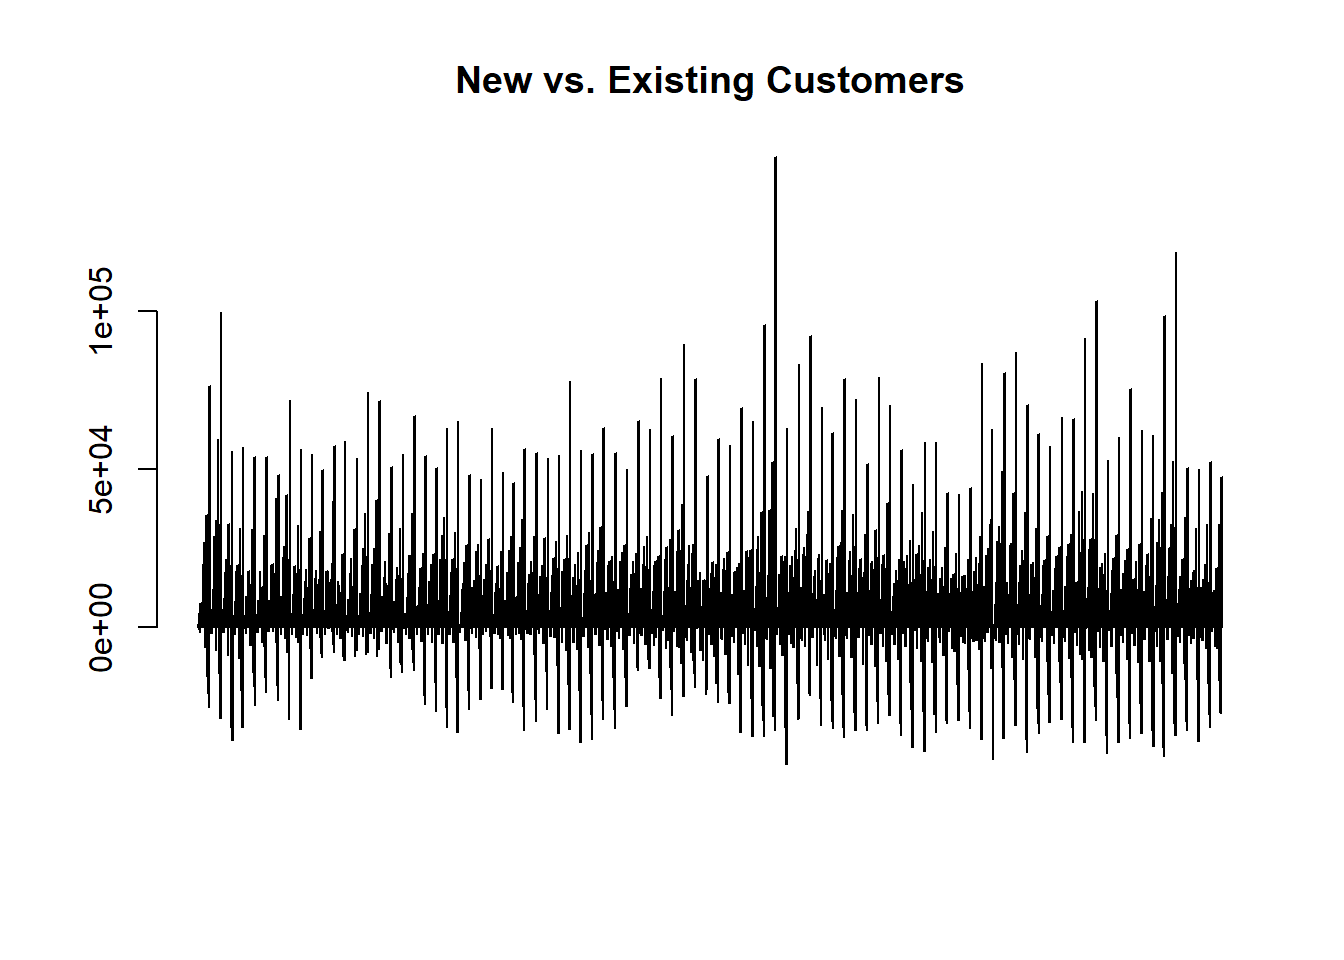
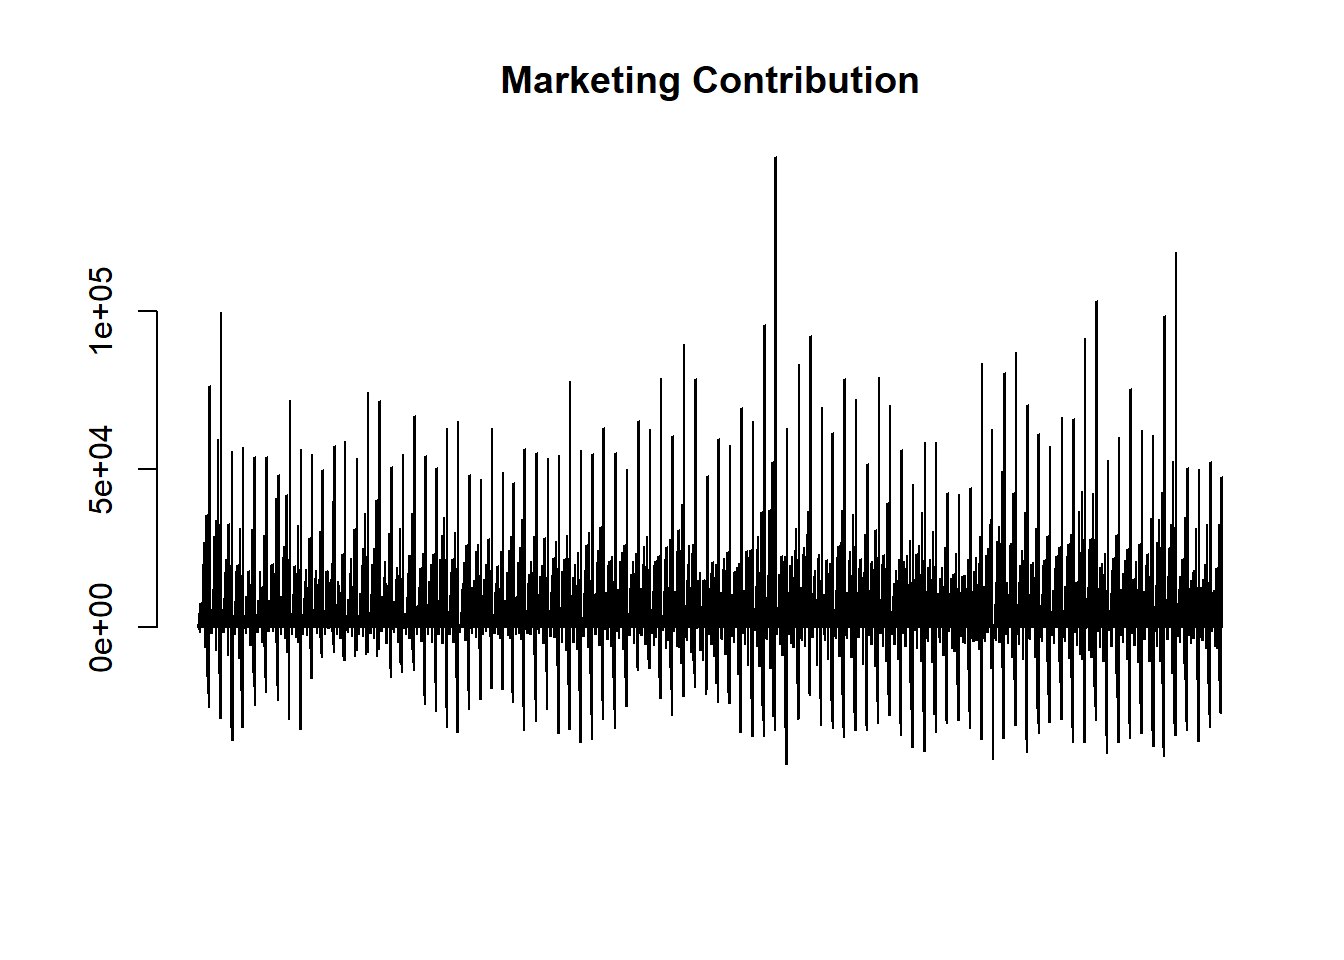
scripting test

Changed region(s): [[0.3438, 0.0625, 0.7188, 0.125]]

diff --git a/docs/scripting.html b/docs/scripting.html
@@ -748,7 +748,7 @@ code span.wa { color: #60a0b0; font-weight: bold; font-style: italic; } /* Warni
 </div>
 </div>
 <div class="cell">
-<div class="sourceCode cell-code" id="cb11"><pre class="sourceCode r code-with-copy"><code class="sourceCode r"><span id="cb11-1"><a href="#cb11-1" aria-hidden="true" tabindex="-1"></a><span class="fu">barplot</span>(mc<span class="sc">$</span>Marketing_Contribution, <span class="at">main=</span><span class="st">"New vs. Existing Customers"</span>)</span></code><button title="Copy to Clipboard" class="code-copy-button"><i class="bi"></i></button></pre></div>
+<div class="sourceCode cell-code" id="cb11"><pre class="sourceCode r code-with-copy"><code class="sourceCode r"><span id="cb11-1"><a href="#cb11-1" aria-hidden="true" tabindex="-1"></a><span class="fu">barplot</span>(mc<span class="sc">$</span>Marketing_Contribution, <span class="at">main=</span><span class="st">"Marketing Contribution"</span>)</span></code><button title="Copy to Clipboard" class="code-copy-button"><i class="bi"></i></button></pre></div>
 <div class="cell-output-display">
 <p><img src="scripting_files/figure-html/unnamed-chunk-12-1.png" class="img-fluid" width="672"></p>
 </div>
@@ -757,6 +757,96 @@ code span.wa { color: #60a0b0; font-weight: bold; font-style: italic; } /* Warni
 <section id="question-5" class="level2">
 <h2 class="anchored" data-anchor-id="question-5">Question 5</h2>
 <p>Find correlation between Paid Search Revenue and Organic Search Revenue - as a calculation as well as a plot.</p>
+<div class="cell">
+<div class="sourceCode cell-code" id="cb12"><pre class="sourceCode r code-with-copy"><code class="sourceCode r"><span id="cb12-1"><a href="#cb12-1" aria-hidden="true" tabindex="-1"></a>search <span class="ot">&lt;-</span> df <span class="sc">|&gt;</span></span>
+<span id="cb12-2"><a href="#cb12-2" aria-hidden="true" tabindex="-1"></a>  <span class="fu">filter</span>(df<span class="sc">$</span>Channel <span class="sc">%in%</span> <span class="fu">c</span>(<span class="st">"Paid Search"</span>, <span class="st">"Organic Search"</span>))</span>
+<span id="cb12-3"><a href="#cb12-3" aria-hidden="true" tabindex="-1"></a>search <span class="ot">&lt;-</span> search <span class="sc">|&gt;</span></span>
+<span id="cb12-4"><a href="#cb12-4" aria-hidden="true" tabindex="-1"></a>  <span class="fu">mutate</span>(<span class="st">"Paid"</span> <span class="ot">=</span> <span class="fu">if_else</span>(Channel <span class="sc">==</span> <span class="st">"Paid Search"</span>, Revenue, <span class="dv">0</span>)) <span class="sc">|&gt;</span></span>
+<span id="cb12-5"><a href="#cb12-5" aria-hidden="true" tabindex="-1"></a>  <span class="fu">mutate</span>(<span class="st">"Organic"</span> <span class="ot">=</span> <span class="fu">if_else</span>(Channel <span class="sc">==</span> <span class="st">"Organic Search"</span>, Revenue, <span class="dv">0</span>))</span>
+<span id="cb12-6"><a href="#cb12-6" aria-hidden="true" tabindex="-1"></a>search <span class="ot">&lt;-</span> search <span class="sc">|&gt;</span> <span class="fu">group_by</span>(Date)</span>
+<span id="cb12-7"><a href="#cb12-7" aria-hidden="true" tabindex="-1"></a>search <span class="ot">&lt;-</span> search <span class="sc">|&gt;</span> <span class="fu">summarise</span>(</span>
+<span id="cb12-8"><a href="#cb12-8" aria-hidden="true" tabindex="-1"></a>    <span class="at">Paid =</span> <span class="fu">sum</span>(Paid),</span>
+<span id="cb12-9"><a href="#cb12-9" aria-hidden="true" tabindex="-1"></a>    <span class="at">Organic =</span> <span class="fu">sum</span>(Organic)</span>
+<span id="cb12-10"><a href="#cb12-10" aria-hidden="true" tabindex="-1"></a>)</span>
+<span id="cb12-11"><a href="#cb12-11" aria-hidden="true" tabindex="-1"></a>search[<span class="fu">is.na</span>(search)] <span class="ot">&lt;-</span> <span class="dv">0</span></span>
+<span id="cb12-12"><a href="#cb12-12" aria-hidden="true" tabindex="-1"></a></span>
+<span id="cb12-13"><a href="#cb12-13" aria-hidden="true" tabindex="-1"></a><span class="fu">head</span>(search, <span class="at">n =</span> <span class="dv">10</span>)</span></code><button title="Copy to Clipboard" class="code-copy-button"><i class="bi"></i></button></pre></div>
+</div>
+<div class="cell">
+<div class="cell-output-display">
+<table class="table table-sm table-striped">
+<thead>
+<tr class="header">
+<th style="text-align: left;">Date</th>
+<th style="text-align: right;">Paid</th>
+<th style="text-align: right;">Organic</th>
+</tr>
+</thead>
+<tbody>
+<tr class="odd">
+<td style="text-align: left;">1/1/2017</td>
+<td style="text-align: right;">304585.5</td>
+<td style="text-align: right;">201553.0</td>
+</tr>
+<tr class="even">
+<td style="text-align: left;">1/10/2017</td>
+<td style="text-align: right;">225208.6</td>
+<td style="text-align: right;">128184.4</td>
+</tr>
+<tr class="odd">
+<td style="text-align: left;">1/11/2017</td>
+<td style="text-align: right;">198156.8</td>
+<td style="text-align: right;">123618.3</td>
+</tr>
+<tr class="even">
+<td style="text-align: left;">1/12/2017</td>
+<td style="text-align: right;">210197.6</td>
+<td style="text-align: right;">125007.6</td>
+</tr>
+<tr class="odd">
+<td style="text-align: left;">1/13/2017</td>
+<td style="text-align: right;">175905.2</td>
+<td style="text-align: right;">103175.5</td>
+</tr>
+<tr class="even">
+<td style="text-align: left;">1/14/2017</td>
+<td style="text-align: right;">208245.9</td>
+<td style="text-align: right;">150135.4</td>
+</tr>
+<tr class="odd">
+<td style="text-align: left;">1/15/2017</td>
+<td style="text-align: right;">236808.2</td>
+<td style="text-align: right;">180538.1</td>
+</tr>
+<tr class="even">
+<td style="text-align: left;">1/16/2017</td>
+<td style="text-align: right;">268583.6</td>
+<td style="text-align: right;">179252.9</td>
+</tr>
+<tr class="odd">
+<td style="text-align: left;">1/17/2017</td>
+<td style="text-align: right;">205861.5</td>
+<td style="text-align: right;">146634.5</td>
+</tr>
+<tr class="even">
+<td style="text-align: left;">1/18/2017</td>
+<td style="text-align: right;">217794.6</td>
+<td style="text-align: right;">139864.3</td>
+</tr>
+</tbody>
+</table>
+</div>
+</div>
+<div class="cell">
+<div class="sourceCode cell-code" id="cb13"><pre class="sourceCode r code-with-copy"><code class="sourceCode r"><span id="cb13-1"><a href="#cb13-1" aria-hidden="true" tabindex="-1"></a><span class="fu">cor</span>(search<span class="sc">$</span>Paid, search<span class="sc">$</span>Organic)</span></code><button title="Copy to Clipboard" class="code-copy-button"><i class="bi"></i></button></pre></div>
+<div class="cell-output cell-output-stdout">
+<pre><code>[1] 0.8457697</code></pre>
+</div>
+<div class="sourceCode cell-code" id="cb15"><pre class="sourceCode r code-with-copy"><code class="sourceCode r"><span id="cb15-1"><a href="#cb15-1" aria-hidden="true" tabindex="-1"></a><span class="fu">plot</span>(search<span class="sc">$</span>Paid, search<span class="sc">$</span>Organic)</span></code><button title="Copy to Clipboard" class="code-copy-button"><i class="bi"></i></button></pre></div>
+<div class="cell-output-display">
+<p><img src="scripting_files/figure-html/unnamed-chunk-15-1.png" class="img-fluid" width="672"></p>
+</div>
+</div>
 </section>
 </section>
 <section id="python" class="level1">
@@ -765,9 +855,9 @@ code span.wa { color: #60a0b0; font-weight: bold; font-style: italic; } /* Warni
 <h2 class="anchored" data-anchor-id="question-1-1">Question 1</h2>
 <p>Read the data into an R or Pandas data frame. Display the top 10 rows of the data frame.</p>
 <div class="cell">
-<div class="sourceCode cell-code" id="cb12"><pre class="sourceCode python code-with-copy"><code class="sourceCode python"><span id="cb12-1"><a href="#cb12-1" aria-hidden="true" tabindex="-1"></a><span class="im">import</span> pandas <span class="im">as</span> pd</span>
-<span id="cb12-2"><a href="#cb12-2" aria-hidden="true" tabindex="-1"></a>df <span class="op">=</span> pd.read_csv(<span class="st">"data/scripting-test.csv"</span>)</span>
-<span id="cb12-3"><a href="#cb12-3" aria-hidden="true" tabindex="-1"></a>df.head(<span class="dv">10</span>)</span></code><button title="Copy to Clipboard" class="code-copy-button"><i class="bi"></i></button></pre></div>
+<div class="sourceCode cell-code" id="cb16"><pre class="sourceCode python code-with-copy"><code class="sourceCode python"><span id="cb16-1"><a href="#cb16-1" aria-hidden="true" tabindex="-1"></a><span class="im">import</span> pandas <span class="im">as</span> pd</span>
+<span id="cb16-2"><a href="#cb16-2" aria-hidden="true" tabindex="-1"></a>df <span class="op">=</span> pd.read_csv(<span class="st">"data/scripting-test.csv"</span>)</span>
+<span id="cb16-3"><a href="#cb16-3" aria-hidden="true" tabindex="-1"></a>df.head(<span class="dv">10</span>)</span></code><button title="Copy to Clipboard" class="code-copy-button"><i class="bi"></i></button></pre></div>
 <div class="cell-output cell-output-stdout">
 <pre><code>       Date         Channel  ... Gross_Profit  Marketing_Spend
 0  1/1/2017  Organic Social  ...       700.84           201.79
